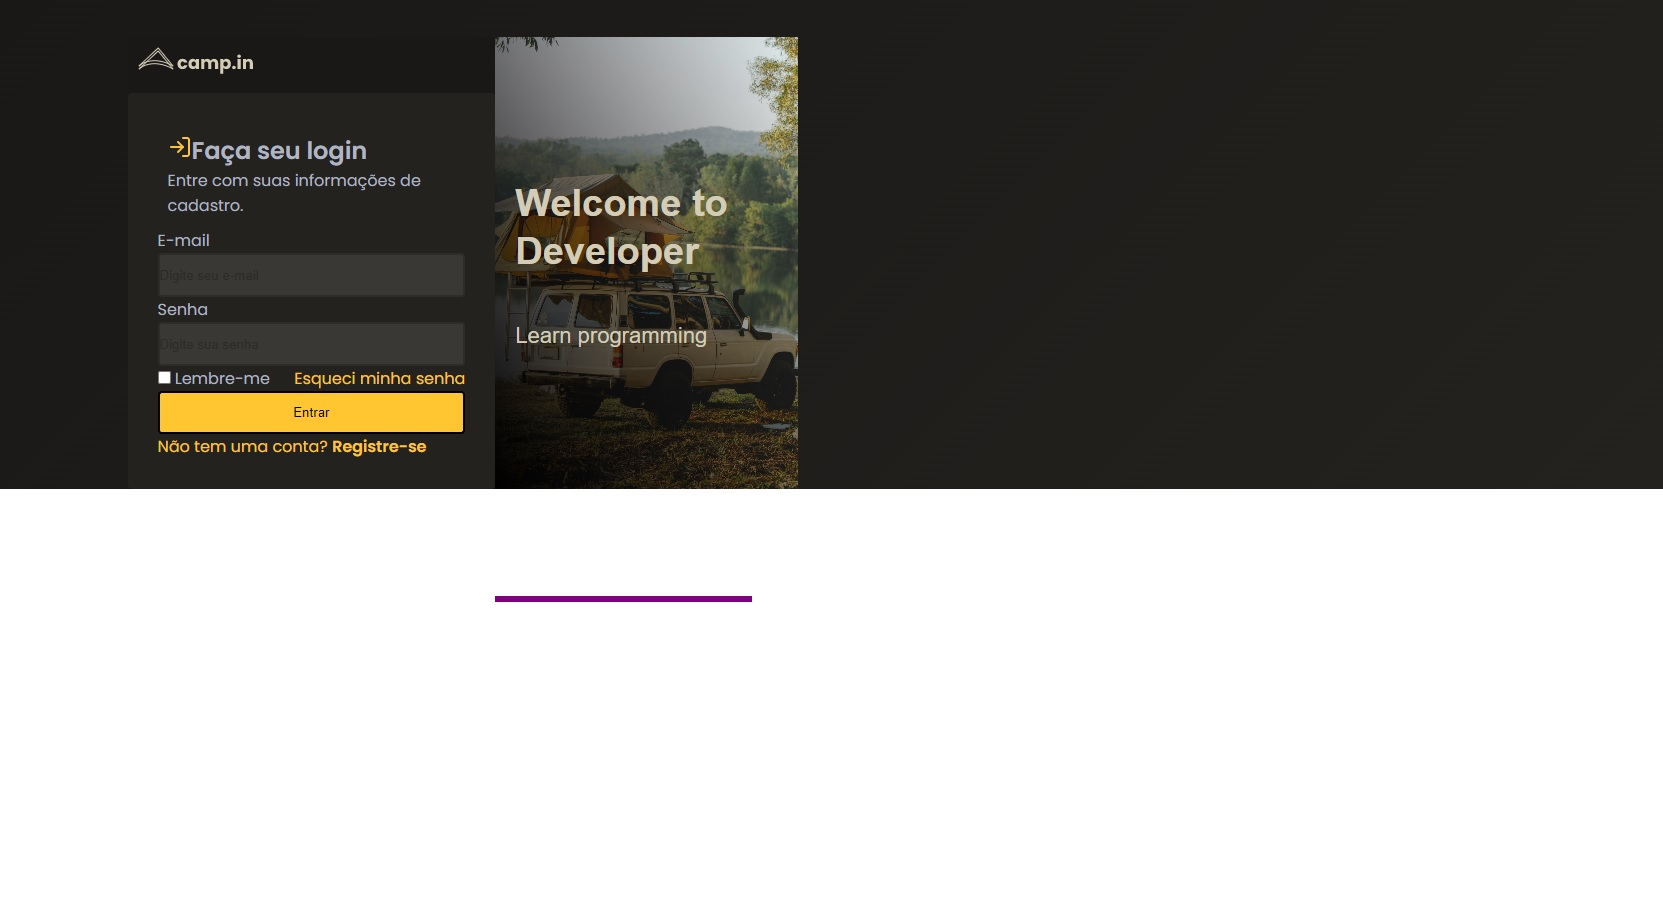
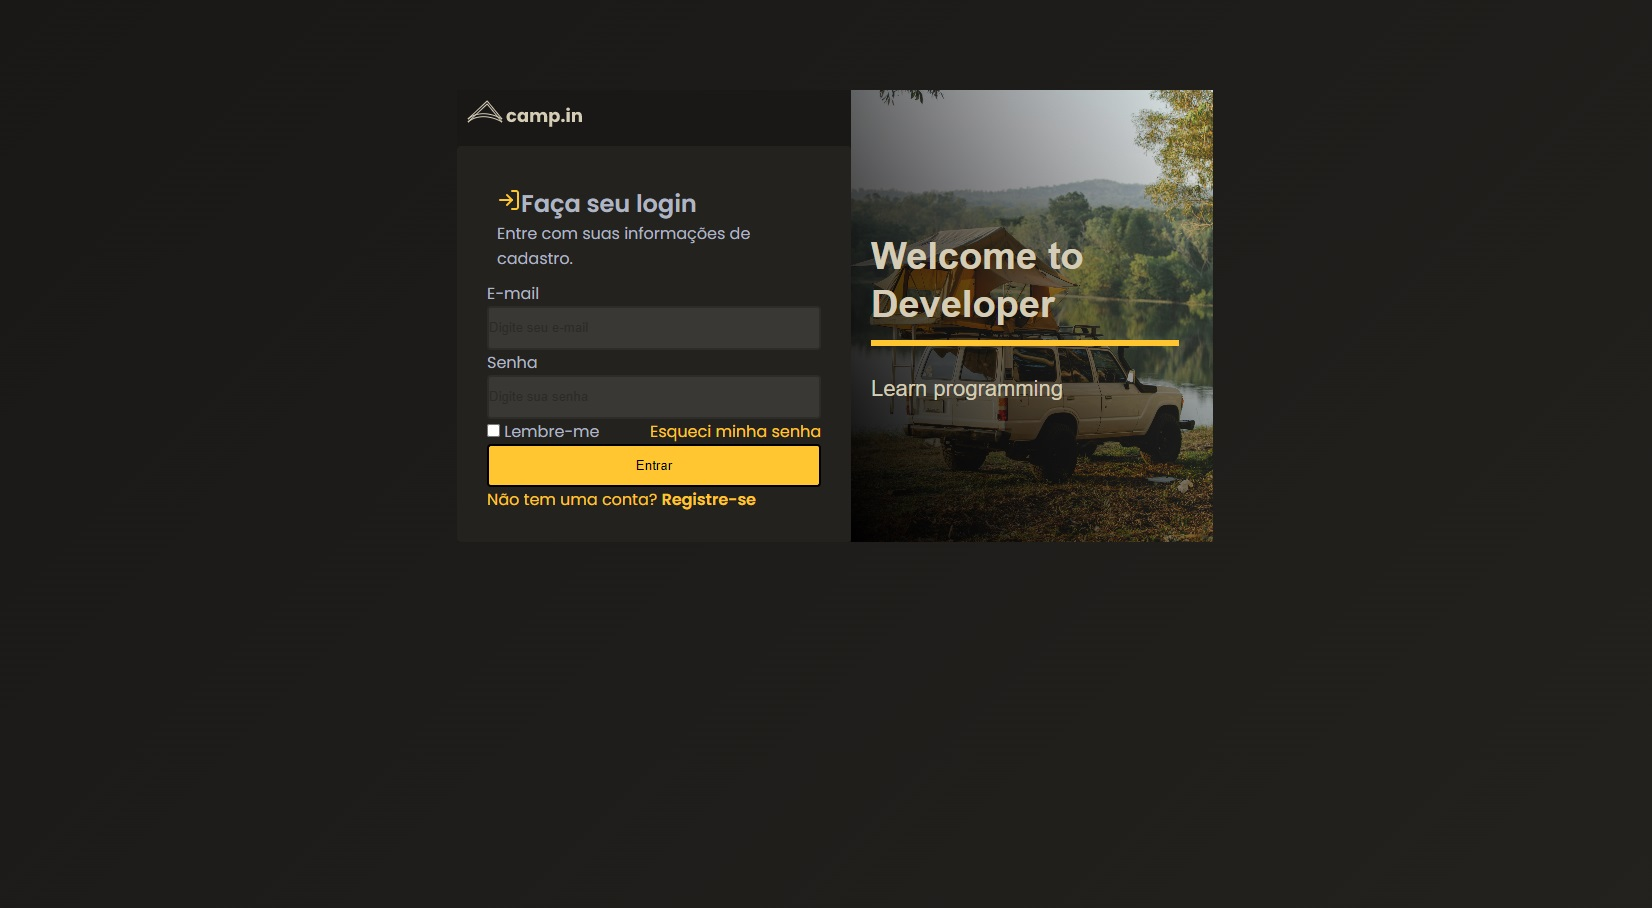
responsividade retirando as imagens

diff --git a/style.css b/style.css
@@ -17,22 +17,22 @@
 body {
     background: linear-gradient(135deg, var(--background), var(--form-background));
     background-repeat: no-repeat;
-    padding-top: 40px;
+    height: 100vh;
     width: 100vw;
-    width: 100vh;
 }
 
 .form-wrapper {
     background-color: red;
-    max-width: 670px;
-    margin: 0 auto;
+    max-width: 45vw;
+    max-height: 80vh;
+    margin: 10vh auto;
 }
 
 .form-container {
     background-color: yellow;
+    color: #002333;
     display: flex;
     align-items: stretch;
-    color: #002333;
 }
 
 .form-left {
@@ -146,15 +146,54 @@ form .registrar_conta a.register {
 
 .content::after {
     content: "";
+    position: absolute;
     width: 85%;
     height: 6px;
-    background: purple;
-    position: absolute;
-    bottom: -25%;
-    left: 0%;
+    background: var(--primary-color);
+    bottom: 196px;
 }
 
 .content p {
     font-size: 22px;
     line-height: 22px;
+}
+
+
+@media (max-width:678px) {
+    body {
+        background: none;
+        padding: 0;
+        margin: 0;
+    }
+
+    .form-wrapper {
+        max-height: 100vh;
+        max-width: 100vw;
+        padding-top: 20px;
+    }
+
+    .form-container {
+        position: relative;
+    }
+
+    .form-right {
+        position: absolute;
+        width: 100%;
+        height: 100%;
+        z-index: -1;
+    }
+
+    .form-right::before {
+        background: linear-gradient(135deg, #fffeb2 10%, #1904e5 100%);
+        opacity: 0.5;
+    }
+
+    .form-right .content {
+        display: none;
+        flex-basis: 100%;
+        flex-direction: column;
+        justify-content: center;
+        background-color: rgba(245, 245, 245, 0.7);
+    }
+
 }

diff --git a/readme.md b/readme.md
@@ -73,8 +73,7 @@ O desafio desse projeto é criar um formulário de login.
 
 #### 🎨 Fontes
 
-- [ ] inserir as variáveis de [Google Fonts](https://fonts.google.com/)
-
+- [x] inserir as variáveis de [Google Fonts](https://fonts.google.com/)
 - font-family: Poppins. font Weight: 400, 500 e 600
 - font-family: Roboto. Font Weight: 400 e 500 
 
